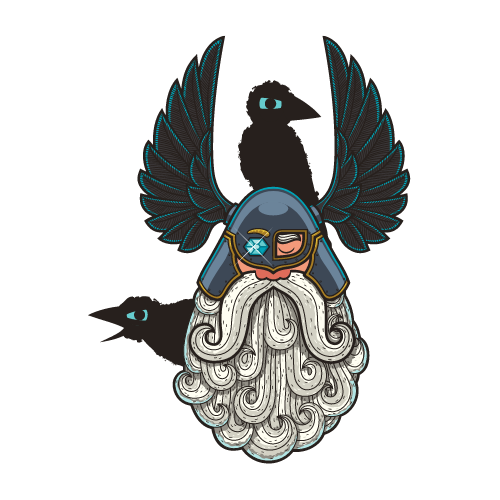
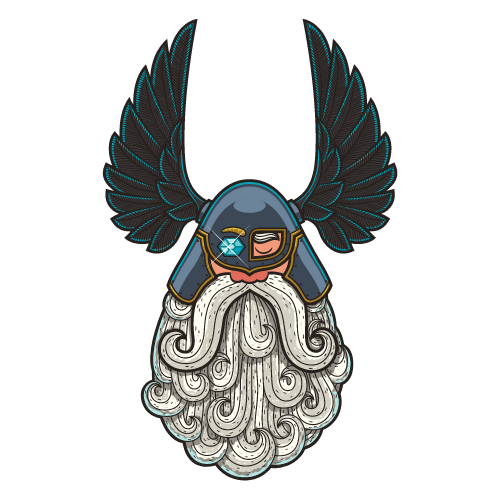
Restore TOP Legacy Leaderboard

Changed region(s): [[0.18, 0.03, 0.84, 0.96]]

diff --git a/templates/includes/_navbar.html b/templates/includes/_navbar.html
@@ -33,7 +33,7 @@
           <a href="{{ url_for('gallery') }}" class="nav-link">Gallery</a>
         </li>
         <li class="nav-item">
-          <a href="{{ url_for('odinstudygroup') }}" class="nav-link">The Odin Project Study Group</a>
+          <a href="{{ url_for('odinstudygroup') }}" class="nav-link">The Odin Project Journey</a>
         </li>
         <li class="nav-item">
           <a href="{{ url_for('newsletter') }}" class="nav-link">Newsletter</a>

diff --git a/templates/odinstudygroup.html b/templates/odinstudygroup.html
@@ -2,16 +2,17 @@
 
 <div class="text-center">
   <h6></h6>
+  <br/>
   <img
     src="{{ url_for('static', filename='img/Odin.png') }}"
-    width="500px"
+    width="400px"
     class="mb-2 img-fluid"
   />
 </div>
 
 <div class="text-center">
   <h1>
-    The Odin Project Study Group
+    The Odin Project Journey
   </h1>
 </div>
 <p style="margin: 30px;"></p>

diff --git a/templates/odinstudygrouplogin.html b/templates/odinstudygrouplogin.html
@@ -5,7 +5,7 @@
   <section>
     <div class="col-lg-12 text-center mt-15">
         <h1 class="display-4 mt-5 pt-3 top-spacing" style="font-family:Montserrat;">
-          The Odin Project Study Group
+          The Odin Project Journey
         </h1>
     </div>
   </section>

diff --git a/templates/odinstudygroupregister.html b/templates/odinstudygroupregister.html
@@ -5,7 +5,7 @@
   <section>
     <div class="col-lg-12 text-center mt-15">
         <h1 class="display-4 mt-5 pt-3 top-spacing" style="font-family:Montserrat;">
-          The Odin Project Study Group
+          The Odin Project Journey
         </h1>
     </div>
   </section>

diff --git a/templates/odinstudygroupupdate.html b/templates/odinstudygroupupdate.html
@@ -3,7 +3,7 @@
 <section>
   <div class="col-lg-12 text-center mt-15">
       <h1 class="display-4 mt-5 pt-3 top-spacing" style="font-family:Montserrat;">
-        The Odin Project Study Group
+        The Odin Project Journey
       </h1>
   </div>
 </section>
